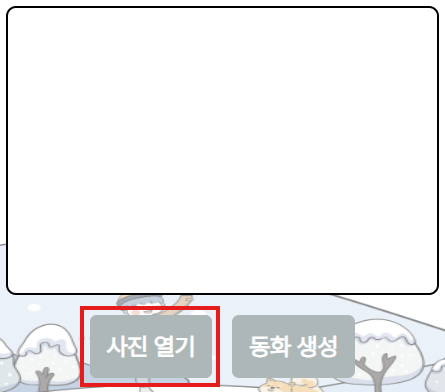
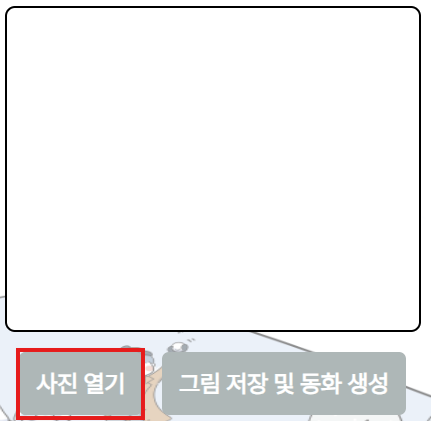
소개 페이지 수정, 실습하기 페이지 배경 이미지 수정

Changed region(s): [[0.0, 0.0, 1.0, 1.0]]

diff --git a/src/pages/Introduce.tsx b/src/pages/Introduce.tsx
@@ -1,15 +1,21 @@
 import styled from "styled-components";
 import { Link } from "react-router-dom";
-import { color } from "../theme";
+import backgroundImage from "../photos/introducebackground.png";
 
 const Container = styled.div`
   display: flex;
   flex-direction: row;
   height: 100vh;
-  padding: 20px;
-  background-color: #f8f9fa;
+  background-image: url(${backgroundImage});
+  background-size: 100% 100%;
+  background-repeat: no-repeat;
+  background-color: rgba(255, 255, 255, 0.6);
+  background-blend-mode: lighten;
+  position: relative;
 
-  @media (max-width: 768px) { // 모바일 세로 모드(반응형)
+  padding: 20px;
+
+  @media (max-width: 768px) {
     flex-direction: column;
     height: auto;
   }
@@ -22,11 +28,9 @@ const LeftContainer = styled.div`
   justify-content: center;
   align-items: center;
   padding: 40px;
-  background-color: ${color.white};
-  box-shadow: 0 4px 8px rgba(0, 0, 0, 0.1);
-  border-radius: 10px;
 
-  @media (max-width: 768px) { // 모바일 세로 모드(반응형)
+  @media (max-width: 768px) {
+    // 모바일 세로 모드(반응형)
     margin-bottom: 20px;
   }
 `;
@@ -38,12 +42,10 @@ const RightContainer = styled.div`
   justify-content: flex-start;
   align-items: center;
   padding: 40px;
-  background-color: ${color.white};
-  box-shadow: 0 4px 8px rgba(0, 0, 0, 0.1);
-  border-radius: 10px;
   overflow-y: auto;
 
-  @media (max-width: 768px) { // 모바일 세로 모드(반응형)
+  @media (max-width: 768px) {
+    // 모바일 세로 모드(반응형)
     overflow-y: visible;
   }
 `;
@@ -52,6 +54,9 @@ const LeftTitle = styled.h1`
   font-size: 2.5em;
   margin-bottom: 20px;
   color: #343a40;
+  background: rgba(255, 255, 255, 0.6);
+  border-radius: 10px;
+  display: inline-block;
 `;
 
 const LeftDescription = styled.p`
@@ -59,6 +64,8 @@ const LeftDescription = styled.p`
   line-height: 1.5;
   margin-bottom: 20px;
   text-align: center;
+  background: rgba(255, 255, 255, 0.6);
+  border-radius: 10px;
 `;
 
 const Image = styled.img`
@@ -71,17 +78,65 @@ const Image = styled.img`
 `;
 
 const Button = styled(Link)`
-  padding: 15px 30px;
+  display: inline-block;
+  margin-top: 50px;
+  padding: 15px 20px;
   text-decoration: none;
-  border-radius: 5px;
-  border: 1px solid #343a40;
+
+  background: #abb7b7;
+  border: 2px solid #abb7b7;
+  font-weight: bold;
+  border-radius: 7px;
+  color: white;
+
   font-size: 1.5em;
-  color: black;
   cursor: pointer;
-  transition: background-color 0.3s ease;
+  transition: transform 0.3s, box-shadow 0.3s;
 
   &:hover {
-    background-color: #e0e0e0;
+    background: #fff;
+    color: #abb7b7;
+    animation: jittery 4s infinite;
+  }
+
+  &:active {
+    background: #fff;
+    border-color: #fff;
+  }
+
+  @keyframes jittery {
+    5%,
+    50% {
+      transform: scale(1);
+    }
+
+    10% {
+      transform: scale(0.9);
+    }
+
+    15% {
+      transform: scale(1.15);
+    }
+
+    20% {
+      transform: scale(1.15) rotate(-5deg);
+    }
+
+    25% {
+      transform: scale(1.15) rotate(5deg);
+    }
+
+    30% {
+      transform: scale(1.15) rotate(-3deg);
+    }
+
+    35% {
+      transform: scale(1.15) rotate(2deg);
+    }
+
+    40% {
+      transform: scale(1.15) rotate(0);
+    }
   }
 `;
 
@@ -93,25 +148,39 @@ const StepContainer = styled.div`
 const RightTitle = styled.h2`
   font-size: 1.8em;
   margin-bottom: 20px;
+  background: rgba(255, 255, 255, 0.6);
+  border-radius: 10px;
+  display: inline-block;
 `;
 
 const RightDescription = styled.p`
-  font-size: 1.2em;
+  font-size: 1.6em;
   line-height: 1.5;
   margin-bottom: 10px;
+  background: rgba(255, 255, 255, 0.9);
+  border-radius: 10px;
 `;
 
-const Introduce = () => {
+interface IntroduceProps {
+  user: { name: string; id: string } | null;
+}
+
+const Introduce = ({ user }: IntroduceProps) => {
   return (
     <Container>
       <LeftContainer>
         <LeftTitle>AI 기반 어린이 그림 동화 생성기</LeftTitle>
         <LeftDescription>
-          그림을 디지털로 업로드하여 저장하고 인공지능을 활용하여<br/>
+          그림을 디지털로 업로드하여 저장하고 인공지능을 활용하여
+          <br />
           주제를 분석해 동화를 생성하는 프로그램입니다.
         </LeftDescription>
         <Image src="src/photos/introduce.png" alt="프로그램 실행 사진" />
-        <Button to="/login">로그인</Button>
+        {user ? (
+          <Button to="/get-started">실습하기</Button>
+        ) : (
+          <Button to="/login">로그인</Button>
+        )}
       </LeftContainer>
       <RightContainer>
         <RightTitle>프로그램 사용 방법</RightTitle>
@@ -123,7 +192,7 @@ const Introduce = () => {
           <RightDescription>
             2. 상단의 '실습하기'를 클릭해 주세요.
           </RightDescription>
-          <Image src="src/photos/introduce.png" />
+          <Image src="src/photos/introduce/introduce2.png" />
         </StepContainer>
         <StepContainer>
           <RightDescription>
@@ -133,15 +202,21 @@ const Introduce = () => {
         </StepContainer>
         <StepContainer>
           <RightDescription>
-            4. '동화 생성' 버튼을 클릭해 주세요.
+            4. '그림 저장 및 동화 생성' 버튼을 클릭해 주세요.
           </RightDescription>
           <Image src="src/photos/introduce/introduce4.png" />
         </StepContainer>
         <StepContainer>
           <RightDescription>
-            5. '이미지 저장' 버튼을 클릭하면 이미지 저장이 가능합니다.
+            5. '동화 저장' 버튼을 클릭하면 동화 저장이 가능합니다.
           </RightDescription>
-          <Image src="src/photos/introduce.png" />
+          <Image src="src/photos/introduce/introduce6.png" />
+        </StepContainer>
+        <StepContainer>
+          <RightDescription>
+            6. '점자 생성' 버튼을 클릭하면 점자로 읽을 수 있습니다.
+          </RightDescription>
+          <Image src="src/photos/introduce/introduce5.png" />
         </StepContainer>
       </RightContainer>
     </Container>

diff --git a/src/pages/GetStarted.tsx b/src/pages/GetStarted.tsx
@@ -6,12 +6,25 @@ import { API_BASE_URL } from "../config";
 const Container = styled.div`
   display: flex;
   padding: 20px;
-  background-image: url(${backgroundImage});
-  background-size: 100% 100%;
-  background-repeat: no-repeat;
+  position: relative;
   min-height: 100vh;
-  background-color: rgba(255, 255, 255, 0.5);
-  background-blend-mode: lighten;
+
+  &:before {
+    content: "";
+    position: absolute;
+    width: 100%;
+    height: 100%;
+    aspect-ratio: 1;
+    z-index: -1;
+    top: 0;
+    left: 0;
+    background-image: url(${backgroundImage});
+    background-size: cover;
+    background-position: bottom;
+    background-repeat: no-repeat;
+    background-color: rgba(255, 255, 255, 0.5);
+    background-blend-mode: lighten;
+  }
 
   @media (max-width: 768px) {
     flex-direction: column;
@@ -119,7 +132,7 @@ const Button = styled.button`
 
   &:hover {
   }
-  
+
   @media (max-width: 768px) {
     margin-top: 10px;
   }
@@ -219,7 +232,7 @@ const GetStarted = () => {
     formData.append("story_content", storyContent);
 
     try {
-      const response = await fetch(`${API_BASE_URL}save-image`, {
+      const response = await fetch(`${API_BASE_URL}save-story`, {
         method: "POST",
         body: formData,
       });
@@ -253,7 +266,7 @@ const GetStarted = () => {
             accept="image/*"
             onChange={handleFileChange}
           />
-          <Button onClick={handleAnalyzeClick}>동화 생성</Button>
+          <Button onClick={handleAnalyzeClick}>그림 저장 및 동화 생성</Button>
         </ButtonContainer>
       </LeftContainer>
       <RightContainer>
@@ -270,7 +283,7 @@ const GetStarted = () => {
         {storyTitle && storyContent && (
           <ButtonContainer>
             <Button onClick={handleBrailleClick}>점자 생성</Button>
-            <Button onClick={handleSaveImageClick}>그림 및 동화 저장</Button>
+            <Button onClick={handleSaveImageClick}>동화 저장</Button>
           </ButtonContainer>
         )}
       </RightContainer>

diff --git a/src/App.tsx b/src/App.tsx
@@ -1,5 +1,5 @@
 import { useState } from "react";
-import {Home, GetStarted, Introduce, Login, SignUp, Team, FindId, FindPw} from "./pages";
+import { Home, GetStarted, Introduce, Login, SignUp, Team, FindId, FindPw } from "./pages";
 import { Header, Footer } from "./components";
 import { BrowserRouter, Navigate, Route, Routes } from "react-router-dom";
 import styled from "styled-components";
@@ -26,7 +26,7 @@ function App() {
           <Header user={user} setUser={setUser} />
           <Routes>
             <Route path="/" element={<Home user={user} />} />
-            <Route path="/introduce" element={<Introduce />} />
+            <Route path="/introduce" element={<Introduce user={user} />} />
             <Route path="/login" element={<Login setUser={setUser} />} />
             <Route path="/signup" element={<SignUp />} />
             <Route path="/team" element={<Team />} />

diff --git a/src/pages/Home.tsx b/src/pages/Home.tsx
@@ -19,8 +19,8 @@ const Style = styled.div`
   h1 {
     margin-top: 150px;
     font-size: 3.5em;
-    background: rgba(255, 255, 255, 0.6);
     padding: 10px;
+    background: rgba(255, 255, 255, 0.6);
     border-radius: 10px;
     display: inline-block;
   }
@@ -116,8 +116,8 @@ const Button = styled(NavLink)`
   padding: 10px 30px;
   text-decoration: none;
 
-  background: #abb7b7;
-  border: 2px solid #abb7b7;
+  background: #bdc2bb;
+  border: 2px solid #bdc2bb;
   font-weight: bold;
   border-radius: 7px;
   color: white;
